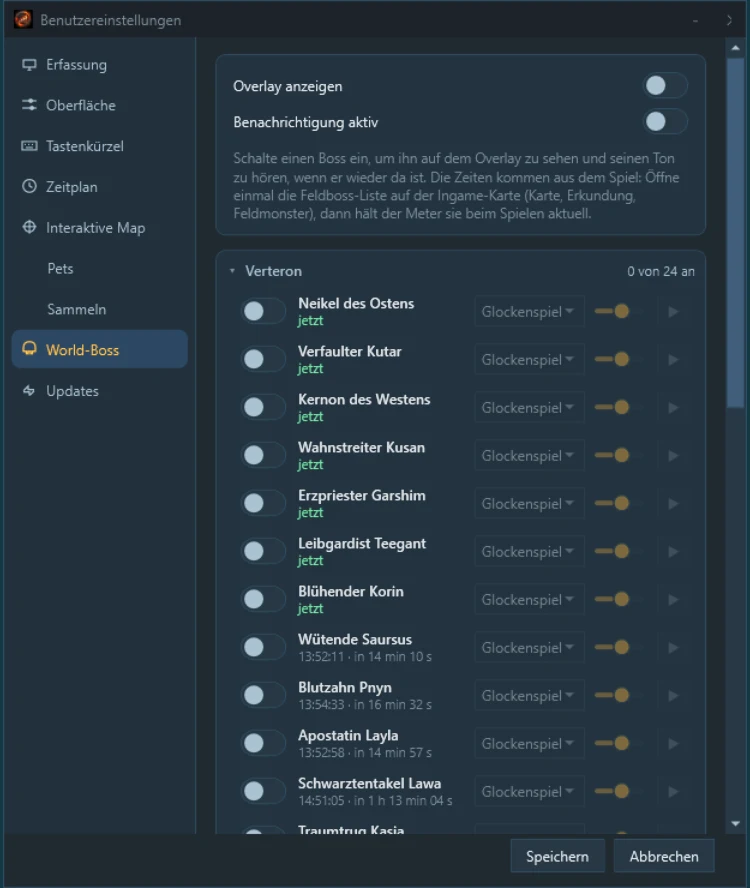
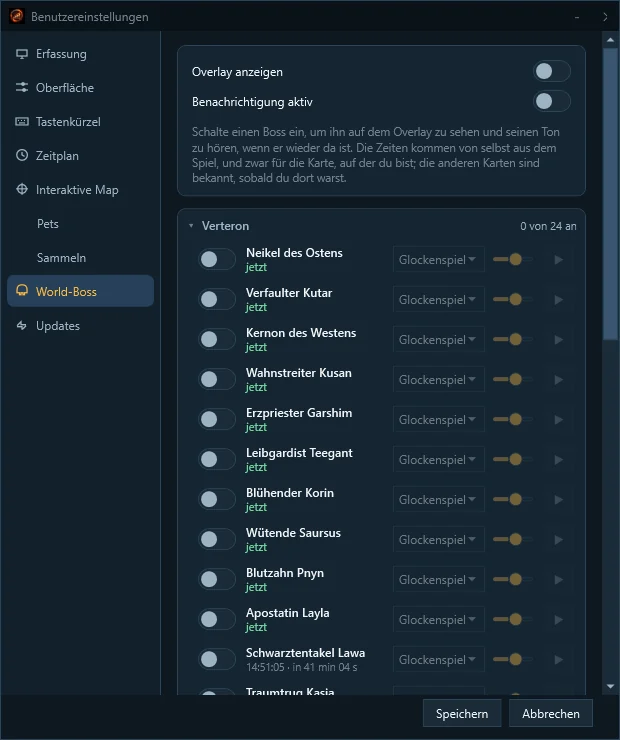
Website: the World Bosses feature says the times arrive by themselves and shows the finished settings page

diff --git a/Web-Frontend/locales/ru.js b/Web-Frontend/locales/ru.js
@@ -416,7 +416,7 @@ export default {
   "features.card.hotkeys.title": "Горячие клавиши",
   "features.card.hotkeys.text": "Пауза, сброс, скрытие и копирование, пока игра в фокусе.",
   "features.worldboss.title": "Мировые боссы на вашем оверлее",
-  "features.worldboss.text": "Включите босса, чтобы видеть его на оверлее и слышать сигнал, как только он появится. Время берётся прямо из игры: один раз откройте список полевых боссов на внутриигровой карте, и счётчик будет обновлять его во время игры. Выберите звук и громкость для каждого босса, с группировкой по регионам.",
+  "features.worldboss.text": "Включите босса, чтобы видеть его на оверлее и слышать сигнал, как только он появится. Время берётся прямо из игры: сервер присылает его сам для карты, на которой вы находитесь, ничего открывать не нужно. Выберите звук и громкость для каждого босса, с группировкой по регионам.",
   "features.card.worldboss.title": "Мировые боссы",
   "features.card.worldboss.text": "Таймеры появления, оверлей и звуковые сигналы для полевых боссов.",
   "features.more.heading": "И ещё",

diff --git a/Web-Frontend/app.js b/Web-Frontend/app.js
@@ -586,7 +586,7 @@ const FEATURE_BLOCKS = [
   { id: "character", images: [["character-gear", 1180, 900], ["character-skills", 1180, 640], ["character-board", 1180, 1000]], wide: true },
   { id: "map", images: [["map", 724, 446], ["gathering", 620, 740]], wide: true, pair: true },
   { id: "timetable", images: [["timetable", 620, 740]] },
-  { id: "worldboss", images: [["worldboss", 750, 888]] },
+  { id: "worldboss", images: [["worldboss", 620, 740]] },
   { id: "hotkeys", images: [["hotkeys", 620, 740]] },
 ];
 
@@ -621,7 +621,7 @@ function renderFeatures() {
     el("section", { id: `feature-${block.id}`, className: `feature-block${block.wide ? " wide" : ""}${block.pair ? " pair" : ""}${index % 2 ? " flip" : ""}` }, [
       featureText(block.id),
       el("div", { className: "feature-shots" }, block.images.map(([name, width, height]) =>
-        el("img", { src: `/images/features/${name}.webp?v=20261009d`, width, height, loading: index === 0 ? "eager" : "lazy", alt: t(`features.${block.id}.title`) }),
+        el("img", { src: `/images/features/${name}.webp?v=20261009e`, width, height, loading: index === 0 ? "eager" : "lazy", alt: t(`features.${block.id}.title`) }),
       )),
     ]),
   );

diff --git a/Web-Frontend/locales/fr.js b/Web-Frontend/locales/fr.js
@@ -416,7 +416,7 @@ export default {
   "features.card.hotkeys.title": "Raccourcis",
   "features.card.hotkeys.text": "Pause, réinitialisation, masquage et copie pendant que le jeu a le focus.",
   "features.worldboss.title": "Les boss du monde sur votre overlay",
-  "features.worldboss.text": "Activez un boss pour le voir sur l'overlay et entendre son son dès qu'il apparaît. Les horaires viennent directement du jeu : ouvrez une fois la liste des boss de terrain sur la carte du jeu, et le compteur la garde à jour pendant que vous jouez. Choisissez un son et un volume pour chaque boss, regroupés par région.",
+  "features.worldboss.text": "Activez un boss pour le voir sur l'overlay et entendre son son dès qu'il apparaît. Les horaires viennent directement du jeu : le serveur les envoie de lui-même pour la carte où vous êtes, rien à ouvrir. Choisissez un son et un volume pour chaque boss, regroupés par région.",
   "features.card.worldboss.title": "Boss du monde",
   "features.card.worldboss.text": "Minuteurs d'apparition, overlay et alertes sonores pour les boss de terrain.",
   "features.more.heading": "Et aussi",

diff --git a/Web-Frontend/locales/pl.js b/Web-Frontend/locales/pl.js
@@ -416,7 +416,7 @@ export default {
   "features.card.hotkeys.title": "Skróty",
   "features.card.hotkeys.text": "Pauza, czyszczenie, ukrywanie i kopiowanie, gdy gra ma fokus.",
   "features.worldboss.title": "Bossowie świata na Twojej nakładce",
-  "features.worldboss.text": "Włącz bossa, aby widzieć go na nakładce i usłyszeć dźwięk, gdy tylko się pojawi. Czasy pochodzą bezpośrednio z gry: otwórz raz listę bossów terenowych na mapie w grze, a miernik będzie ją aktualizować podczas gry. Wybierz dźwięk i głośność dla każdego bossa, pogrupowanych według regionu.",
+  "features.worldboss.text": "Włącz bossa, aby widzieć go na nakładce i usłyszeć dźwięk, gdy tylko się pojawi. Czasy pochodzą bezpośrednio z gry: serwer wysyła je sam dla mapy, na której jesteś, nic nie trzeba otwierać. Wybierz dźwięk i głośność dla każdego bossa, pogrupowanych według regionu.",
   "features.card.worldboss.title": "Bossowie świata",
   "features.card.worldboss.text": "Liczniki pojawiania się, nakładka i alerty dźwiękowe dla bossów terenowych.",
   "features.more.heading": "A poza tym",

diff --git a/Web-Frontend/locales/de.js b/Web-Frontend/locales/de.js
@@ -429,7 +429,7 @@ export default {
   "features.card.hotkeys.title": "Hotkeys",
   "features.card.hotkeys.text": "Pausieren, Zurücksetzen, Ausblenden und Kopieren im Spiel.",
   "features.worldboss.title": "World-Bosse auf deinem Overlay",
-  "features.worldboss.text": "Schalte einen Boss ein, um ihn auf dem Overlay zu sehen und seinen Ton zu hören, sobald er da ist. Die Zeiten kommen direkt aus dem Spiel: Öffne einmal die Feldboss-Liste auf der Ingame-Karte, dann hält der Meter sie beim Spielen aktuell. Wähle Ton und Lautstärke für jeden Boss, gruppiert nach Region.",
+  "features.worldboss.text": "Schalte einen Boss ein, um ihn auf dem Overlay zu sehen und seinen Ton zu hören, sobald er da ist. Die Zeiten kommen direkt aus dem Spiel: Der Server schickt sie von selbst für die Karte, auf der du bist, du musst nichts öffnen. Wähle Ton und Lautstärke für jeden Boss, gruppiert nach Region.",
   "features.card.worldboss.title": "World-Bosse",
   "features.card.worldboss.text": "Spawn-Timer, Overlay und Tonsignal für Feldbosse.",
   "features.more.heading": "Und außerdem",

diff --git a/Web-Frontend/locales/es.js b/Web-Frontend/locales/es.js
@@ -416,7 +416,7 @@ export default {
   "features.card.hotkeys.title": "Atajos",
   "features.card.hotkeys.text": "Pausa, borrado, ocultar y copiar mientras el juego tiene el foco.",
   "features.worldboss.title": "Jefes del mundo en tu overlay",
-  "features.worldboss.text": "Activa un jefe para verlo en el overlay y oír su sonido en cuanto aparezca. Los tiempos vienen directamente del juego: abre una vez la lista de jefes de campo en el mapa del juego y el medidor la mantiene actualizada mientras juegas. Elige un sonido y un volumen para cada jefe, agrupados por región.",
+  "features.worldboss.text": "Activa un jefe para verlo en el overlay y oír su sonido en cuanto aparezca. Los tiempos vienen directamente del juego: el servidor los envía solo para el mapa en el que estás, no hace falta abrir nada. Elige un sonido y un volumen para cada jefe, agrupados por región.",
   "features.card.worldboss.title": "Jefes del mundo",
   "features.card.worldboss.text": "Temporizadores de aparición, overlay y alertas sonoras para jefes de campo.",
   "features.more.heading": "Y además",

diff --git a/Web-Frontend/locales/tr.js b/Web-Frontend/locales/tr.js
@@ -416,7 +416,7 @@ export default {
   "features.card.hotkeys.title": "Kısayollar",
   "features.card.hotkeys.text": "Oyun odaktayken duraklat, temizle, gizle ve kopyala.",
   "features.worldboss.title": "Dünya patronları kaplamanızda",
-  "features.worldboss.text": "Bir patronu açın; ortaya çıktığı anda kaplamada görün ve sesini duyun. Zamanlar doğrudan oyundan gelir: oyun içi haritada saha patronu listesini bir kez açın, sayaç oynarken onu güncel tutar. Her patron için bölgeye göre gruplanmış bir ses ve ses düzeyi seçin.",
+  "features.worldboss.text": "Bir patronu açın; ortaya çıktığı anda kaplamada görün ve sesini duyun. Zamanlar doğrudan oyundan gelir: sunucu bunları bulunduğunuz harita için kendiliğinden gönderir, hiçbir şey açmanız gerekmez. Her patron için bölgeye göre gruplanmış bir ses ve ses düzeyi seçin.",
   "features.card.worldboss.title": "Dünya Patronları",
   "features.card.worldboss.text": "Saha patronları için doğma zamanlayıcıları, kaplama ve sesli uyarılar.",
   "features.more.heading": "Ayrıca",

diff --git a/Web-Frontend/locales/zh.js b/Web-Frontend/locales/zh.js
@@ -416,7 +416,7 @@ export default {
   "features.card.hotkeys.title": "快捷键",
   "features.card.hotkeys.text": "游戏处于焦点时暂停、清除、隐藏和复制。",
   "features.worldboss.title": "世界首领显示在您的悬浮窗上",
-  "features.worldboss.text": "开启某个首领后，即可在悬浮窗上看到它，并在它出现的瞬间听到提示音。时间直接来自游戏：在游戏地图中打开一次野外首领列表，统计器会在您游玩时保持更新。可为每个首领选择提示音和音量，并按区域分组。",
+  "features.worldboss.text": "开启某个首领后，即可在悬浮窗上看到它，并在它出现的瞬间听到提示音。时间直接来自游戏：服务器会自动发送您所在地图的时间，无需打开任何界面。可为每个首领选择提示音和音量，并按区域分组。",
   "features.card.worldboss.title": "世界首领",
   "features.card.worldboss.text": "野外首领的刷新计时、悬浮窗和声音提醒。",
   "features.more.heading": "此外",

diff --git a/Web-Frontend/locales/en.js b/Web-Frontend/locales/en.js
@@ -429,7 +429,7 @@ export default {
   "features.card.hotkeys.title": "Hotkeys",
   "features.card.hotkeys.text": "Pause, clear, hide and copy while the game has focus.",
   "features.worldboss.title": "World bosses on your overlay",
-  "features.worldboss.text": "Switch on a boss to see it on the overlay and hear its sound the moment it is up. The times come straight from the game: open the field boss list on the in-game map once and the meter keeps them current while you play. Pick a sound and volume for every boss, grouped by region.",
+  "features.worldboss.text": "Switch on a boss to see it on the overlay and hear its sound the moment it is up. The times come straight from the game: the server sends them by itself for the map you are on, no need to open anything. Pick a sound and volume for every boss, grouped by region.",
   "features.card.worldboss.title": "World Bosses",
   "features.card.worldboss.text": "Spawn timers, overlay and sound alerts for field bosses.",
   "features.more.heading": "And more",
